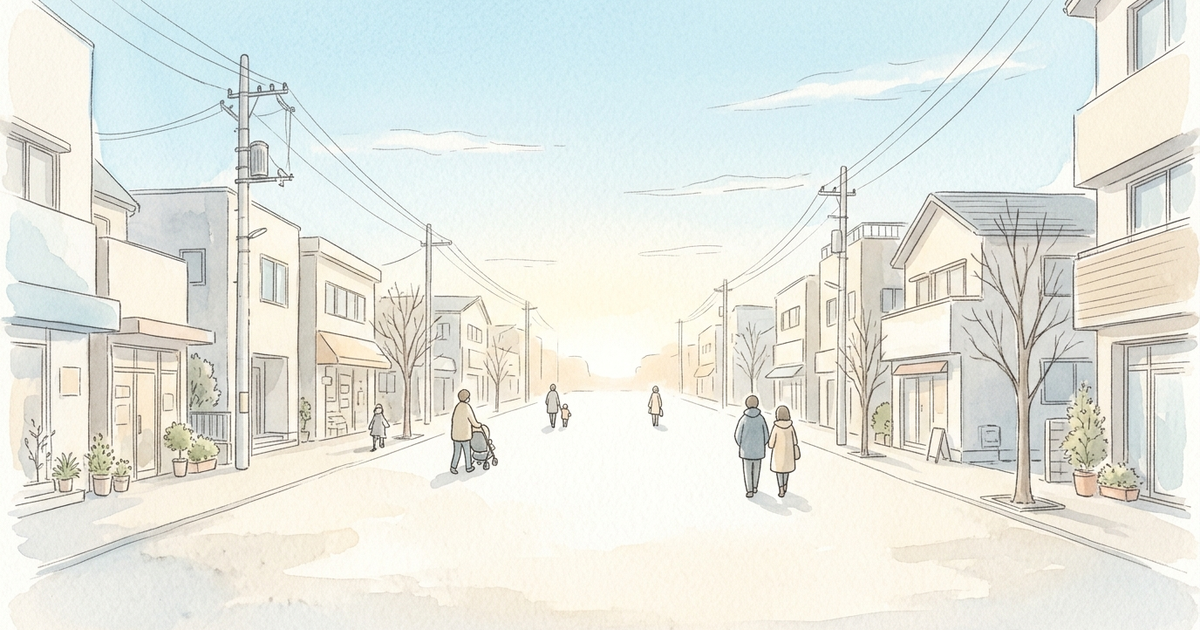
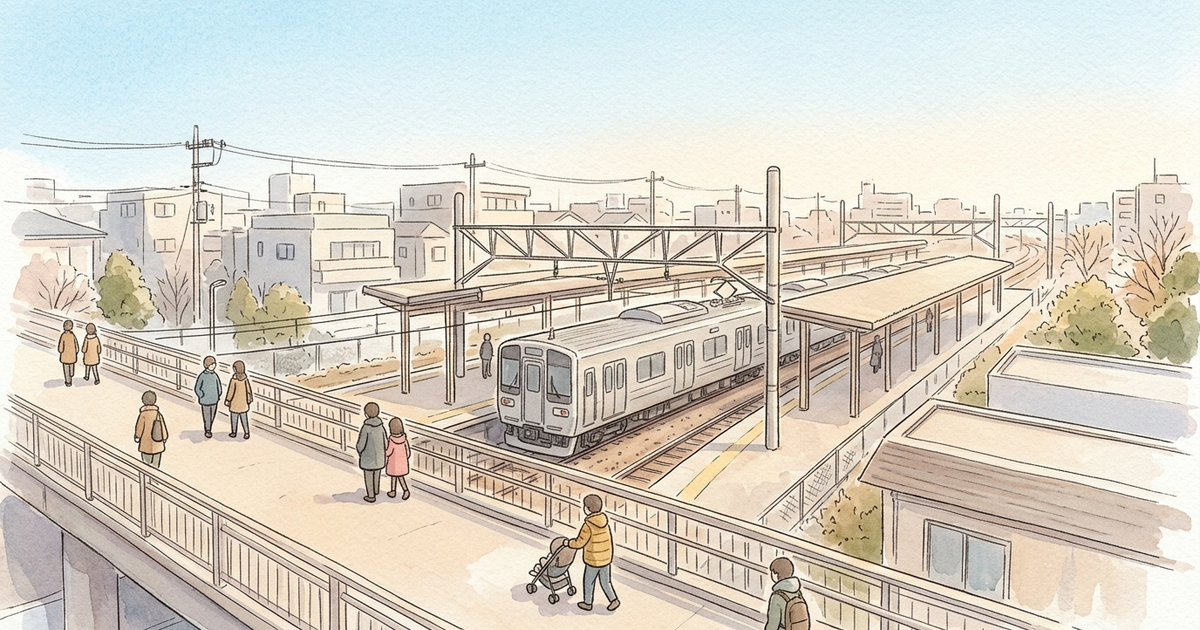
中野駅の記事を修正（サムネの作り直し、開始時刻の「予定」、出典を区の発表に）

diff --git a/content/posts/2026-11-28-nakano-station-west-gate-opening/index.md b/content/posts/2026-11-28-nakano-station-west-gate-opening/index.md
@@ -1,5 +1,5 @@
 ---
-title: "【中野区】中野駅の新しい西改札と南北通路、12月6日12時に使えるように。駅の西側がひとつにつながります"
+title: "【中野区】中野駅の新しい西改札と南北通路、12月6日正午に利用開始予定。駅の西側がひとつにつながります"
 date: 2026-11-28T10:54:00+09:00
 lastmod: 2026-11-28T10:54:00+09:00
 draft: false
@@ -7,19 +7,19 @@ ward: "nakano"
 area: "中野駅西側（中野3・4丁目）"
 categories: ["life"]
 tags: ["中野駅", "駅設備", "西改札", "南北通路", "バリアフリー"]
-og_title: "中野駅の新西改札と南北通路が12月6日に開始"
-source_name: "Impress Watch「中野駅西側の新駅設備が12月6日に供用開始」（2026年7月7日、中野区・JR東日本・東京メトロ・UR都市機構の発表にもとづく記事）"
-source_url: "https://travel.watch.impress.co.jp/docs/news/2123070.html"
+og_title: "中野駅の新西改札と南北通路、12月6日開始予定"
+source_name: "中野区 報道発表「中野駅西側に新たな玄関口が誕生」（2026年7月7日）"
+source_url: "https://www.city.tokyo-nakano.lg.jp/kusei/public/houdou/2026/20260707press.html"
 sponsored: false
 ---
 
-中野駅の西側で進んできた駅まわりの整備が、いよいよ形になります。中野区、JR東日本、東京メトロ、UR都市機構は、新しい西改札などの駅設備を、2026年12月6日（日）12時から使えるようにすると発表しています。線路の北と南で分かれていた中野3丁目と4丁目が、歩行者専用の通路でつながり、通勤・通学や買い物の動き方が変わりそうです。
+中野駅の西側で進んできた駅まわりの整備が、いよいよ形になります。中野区、JR東日本、東京メトロ、UR都市機構は、新しい西改札などの駅設備を、2026年12月6日（日）の正午から使えるようにする予定だと発表しています。線路の北と南で分かれていた中野3丁目と4丁目が、歩行者専用の通路でつながり、通勤・通学や買い物の動き方が変わりそうです。
 
 ## ポイント・概要
 
 | 項目 | 内容 |
 |---|---|
-| 供用開始 | **2026年12月6日（日）12時** |
+| 供用開始 | **2026年12月6日（日）正午（予定）** |
 | 場所 | 中野駅西側（中野区中野3丁目・4丁目） |
 | 発表した主体 | 中野区、JR東日本、東京メトロ、UR都市機構 |
 
@@ -38,14 +38,14 @@ sponsored: false
 
 これまで、駅の西側を行き来するときは、遠回りをした記憶がある方も多いのではないでしょうか。新しい通路ができると、駅の北と南が、改札のすぐそばでつながります。ベビーカーや大きな荷物があるとき、エレベーターが増えるのは心強いところです。
 
-- **使えるのは12時から**：12月6日の朝は、まだ新しい設備は使えません。お昼前後に出かける予定のある方は、時刻を間違えないようにしましょう。
+- **使えるのは正午からの予定**：12月6日の朝は、まだ新しい設備は使えない見込みです。お昼前後に出かける予定のある方は、時刻を間違えないようにしましょう。
 - **開始直後は混みそう**：初日は、見に来る人で込み合うことも考えられます。時間に余裕をもって動くのがおすすめです。
 - **工事はまだ続きます**：南口駅前広場は2028年度、新北口駅前広場は2029年度の完成予定とされています。駅前の道筋は、しばらく変わることがあります。
 - **くわしい利用案内**：改札の使い方、出口、乗り換えの経路などは、中野区やJR東日本の公式サイトでご確認ください。
 
 ## 出典・参考情報
 
-- Impress Watch「中野駅西側の新駅設備が12月6日に供用開始」（2026年7月7日） https://travel.watch.impress.co.jp/docs/news/2123070.html
-  - 中野区、JR東日本、東京メトロ、UR都市機構の発表にもとづく記事です。設備の数量、日時、今後の工程はこちらで確認しています。
-  - 各機関の公式サイトの発表ページは、本文を直接確認できていません。
+- 中野区 報道発表「令和8（2026）年12月6日（日曜日）中野駅西側に新たな玄関口が誕生」（2026年7月7日） https://www.city.tokyo-nakano.lg.jp/kusei/public/houdou/2026/20260707press.html
+  - 日時、設備の数量、アトレ中野の開業予定日、今後の工程は、こちらで確認しています。
+- 参考：Impress Watch「中野駅西側、新たな玄関となる南北通路・橋上駅舎・西改札が12月6日供用開始」（2026年7月7日） https://travel.watch.impress.co.jp/docs/news/2123070.html
 - 確認日：2026年11月28日（JST）
